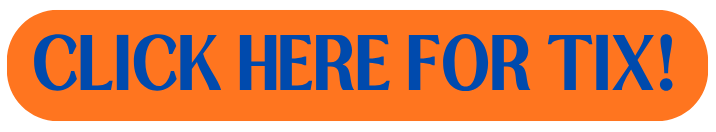
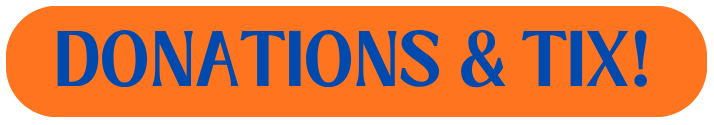
Sponsor page: new DONATIONS & TIX button (GalaBid)

diff --git a/index.html b/index.html
@@ -138,9 +138,9 @@
   <!-- HUGE CLICK HERE -->
   <section class="cta">
     <img class="tixinfo" src="assets/trivia-tickets-info.png?v=2" alt="Trivia Tickets — it's easier this year. 1. If you have a group, each person buys a ticket and lists their team name so you sit together. 2. If you don't have a team, just put your year group and we'll do the rest. Super easy.">
-    <a class="bigcta" id="ticketsBtn" href="#" target="_blank" rel="noopener" aria-label="Click here for tickets (opens in new tab)">
-      <img src="assets/webbutton.png" alt="Click here for tickets"
-           onerror="this.replaceWith(Object.assign(document.createElement('span'),{textContent:'Get tickets \u2192',className:'txtlink'}))">
+    <a class="bigcta" id="ticketsBtn" href="#" target="_blank" rel="noopener" aria-label="Donations & tickets (opens in new tab)">
+      <img src="assets/webbutton.png?v=2" alt="Donations & Tickets"
+           onerror="this.replaceWith(Object.assign(document.createElement('span'),{textContent:'Donations & Tickets \u2192',className:'txtlink'}))">
     </a>
   </section>
 